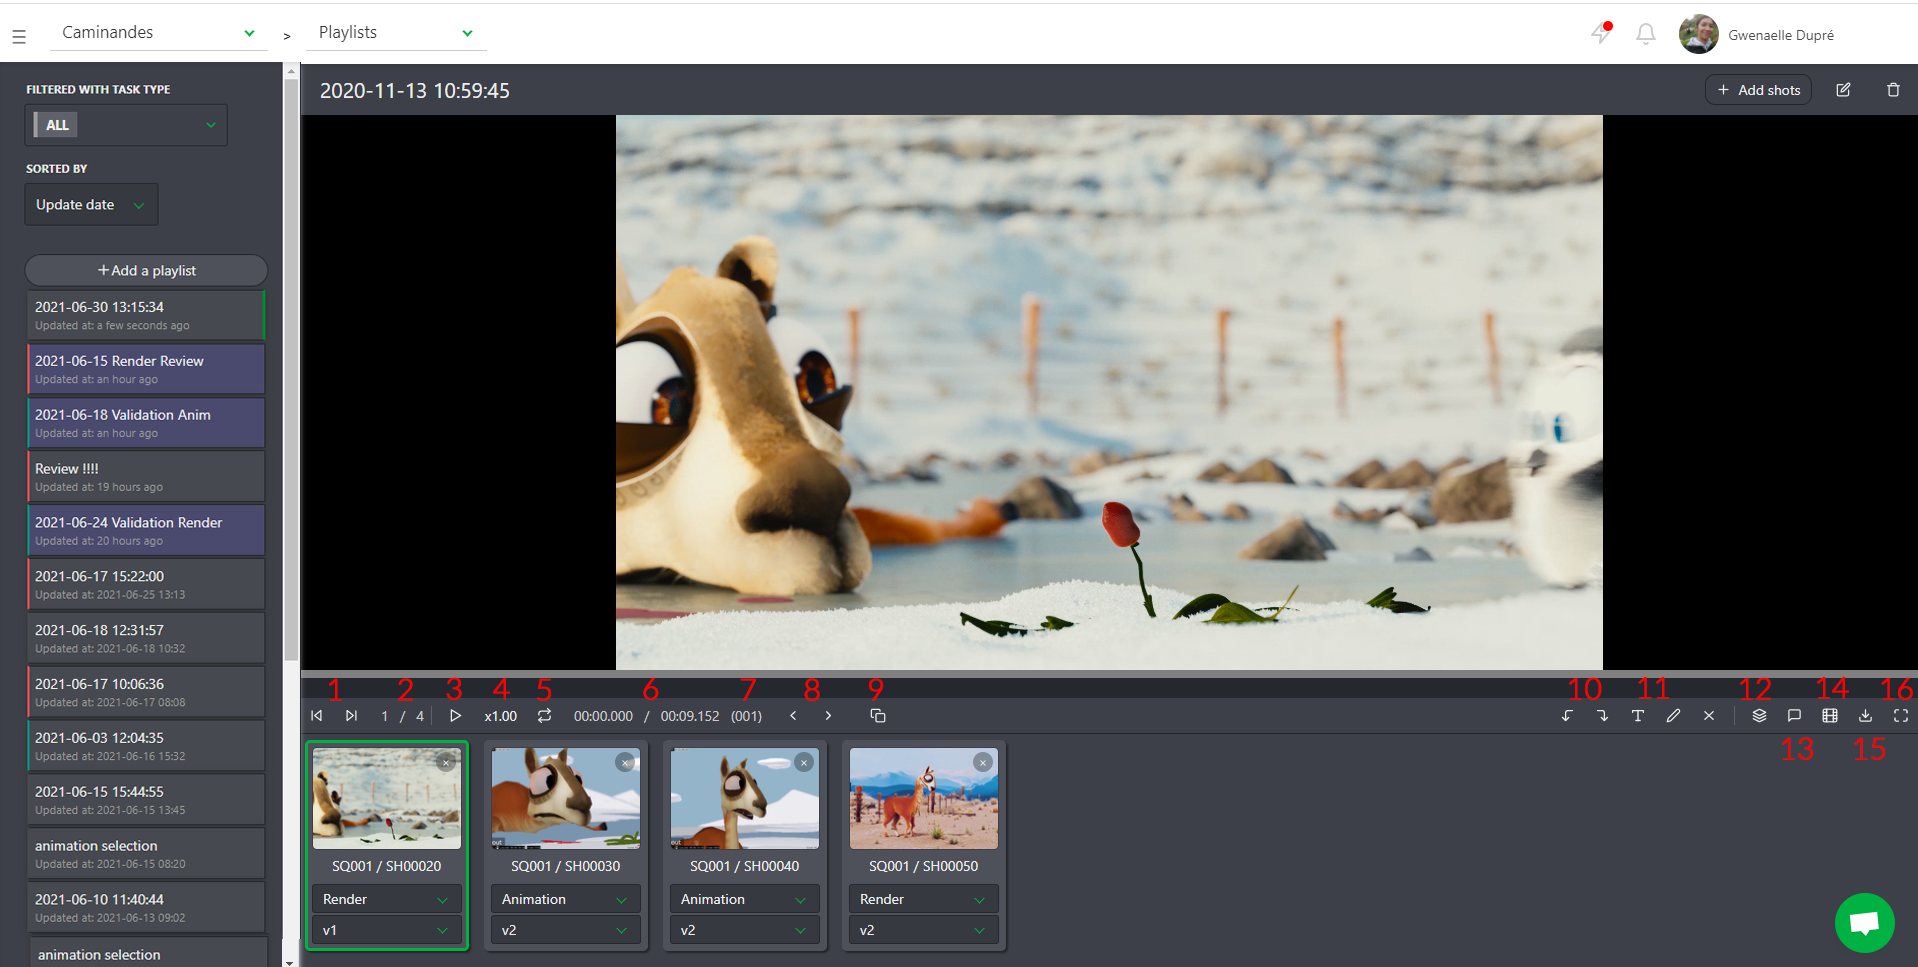
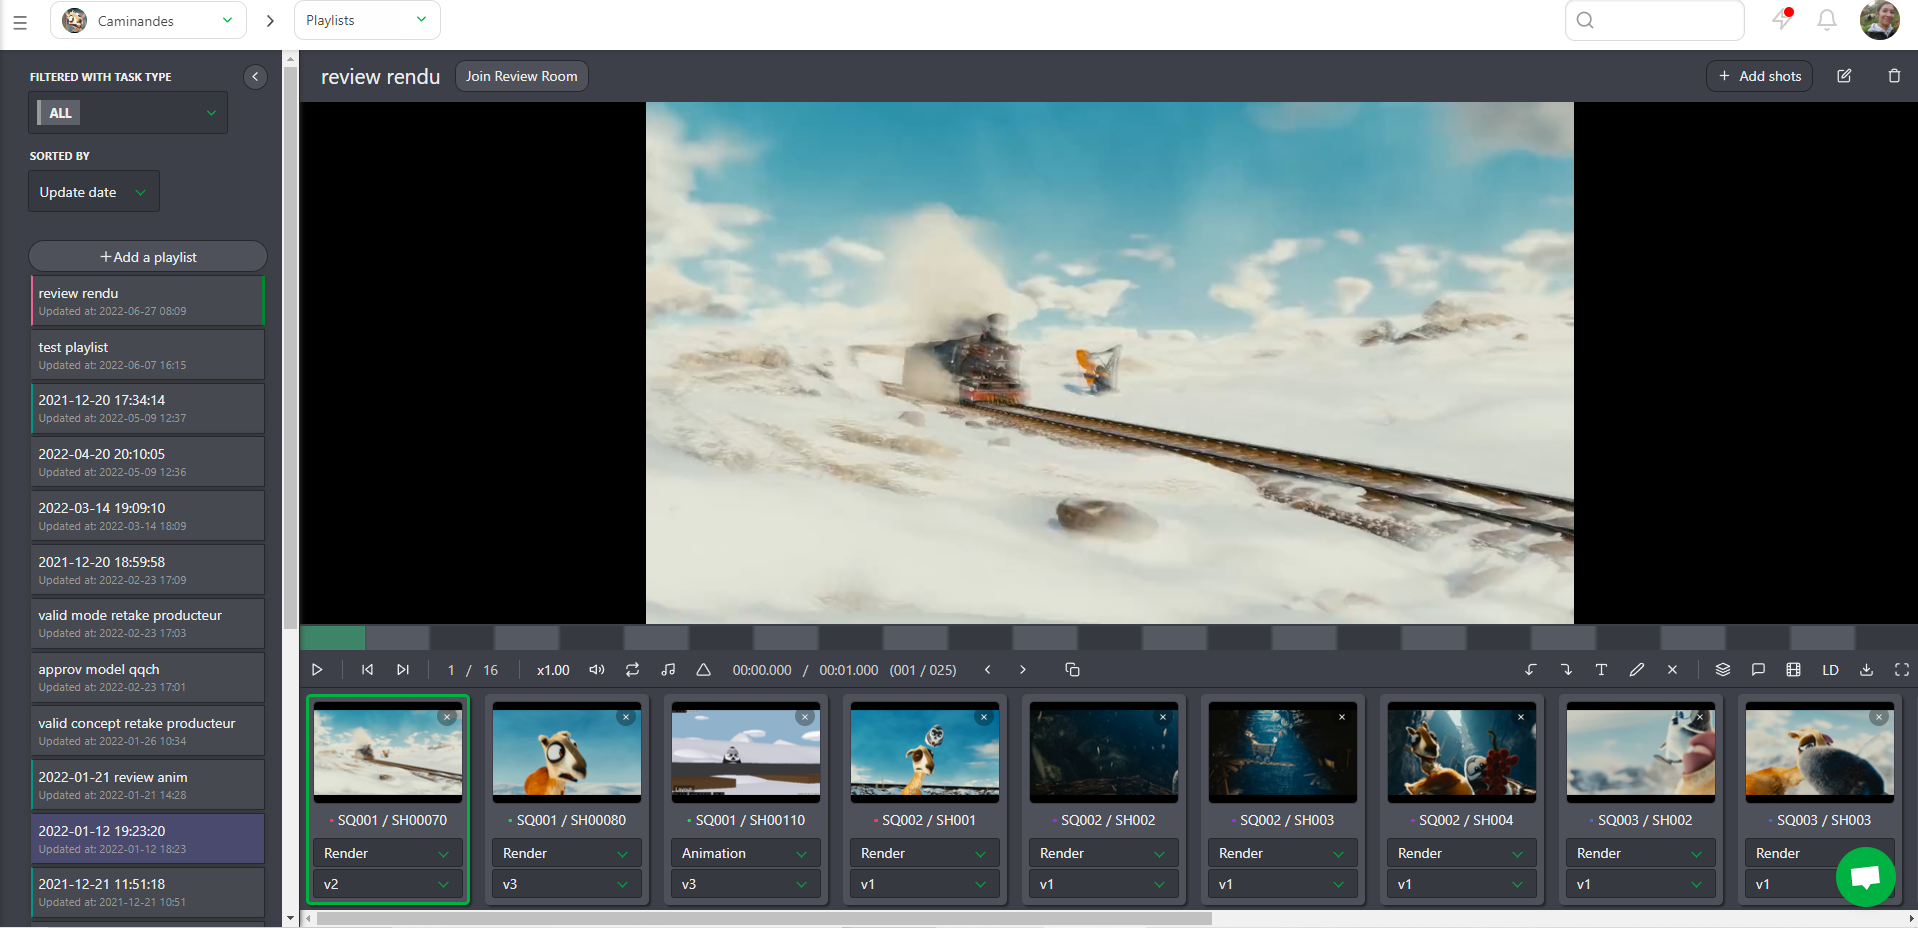
playlist update

diff --git a/docs/playlist/README.md b/docs/playlist/README.md
@@ -51,37 +51,30 @@ Once you have created a playlist; you have several options:
 
 ![Playlist Global](../img/getting-started/playlist_global.png)
 
-1/ Navigate from element to element
+* Play or Pause
+* Navigate from element to element
+* See the position of the selected element compare to the total number of elements
+* Mute or unmute the sound
+* Change the speed, double speed (x2), full speed (x1), half of the speed (x0.50), or a quarter of the speed (x0.25)
+* Loop on one element
+* Display the sound wave
+* Display annotations during the play
+* TC of the element compared to the TC of the whole playlist
+* Number of frame
+* Navigate frame per frame on the preview. You can also do it with the arrow on the Keyboard.
+* Compare tool
 
-2/ you can see the position of the selected element compare to the total number of elements
 
-3/ Play or Pause
+* Undo and Redo option for the drawing comment
+* Text and drawing option, and delete selection
 
-4/ You can change the speed, full speed (x1), half of the speed (x0.50), or a quarter of the speed (x0.25)
 
-5/ Loop on one element
-
-6/ TC of the element compared to the TC of the whole playlist
-
-7/number of frame
-
-8/ Navigate frame per frame on the preview. You can also do it with the arrow on the Keyboard.
-
-9/ Compare tool
-
-10/ Undo and Redo option for the drawing comment
-
-11/ Text and drawing option, and delete selection
-
-12/change the task type of all the elements of the playlist
-
-13/ Display the comment section
-
-14/ Hide the elements of the playlist
-
-15/ Download the playlist as a **Zip** files with all the separated elements, a **.csv** text file, or **Build .mp4** to create the whole movie (only for shots)
-
-16/ Fullscreen
+* Change the task type of all the elements of the playlist
+* Display the comment section
+* Hide the elements of the playlist
+* Switch between LD (low definition) to HD (High definition)
+* Download the playlist as a **Zip** files with all the separated elements, a **.csv** text file, or **Build .mp4** to create the whole movie (only for shots)
+* Fullscreen
 
 
 
@@ -115,4 +108,15 @@ You can see the drawing comment on the video (the red dot below the timeline).
 
 You can draw or type on the video (same than 
 [Perform a review](../getting-started-production/README.md#perform-a-review)), with the **draw** button ![draw button](../img/getting-started/draw.png)
+
+
+## Review Room
+
+On top of the playlist you have a button to **Join Review Room**. The review room will synchronize all the particiapnts.
+
+Everytbody in the review room will see in real time the play and pause, the shots and frame selection.
+
+The people in the review room will also see the drawing annotation synchronised.
+
+![Playlist review room](../img/getting-started/playlist_review_room.png)
 
